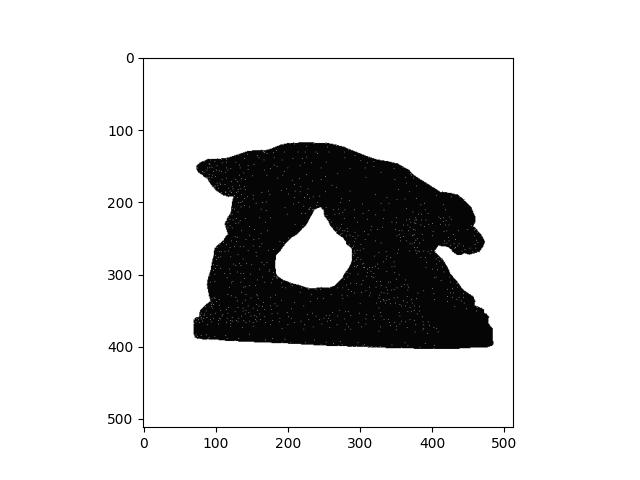
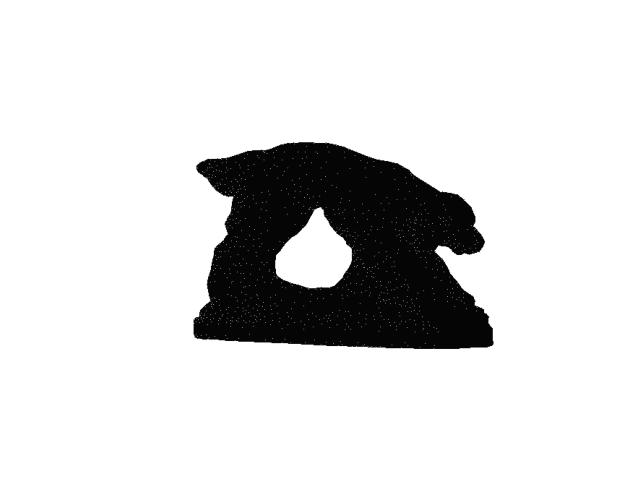
fix white spots

diff --git a/demos/demo_lighting.py b/demos/demo_lighting.py
@@ -1,6 +1,7 @@
 import numpy as np
 import matplotlib.pyplot as plt
 from rendering.render import render_object
+import cv2
 
 data = np.load("../materials/hw3.npy", allow_pickle=True).tolist()
 verts = np.array(data['verts'])
@@ -24,55 +25,62 @@ H = np.array(data['H'])
 bg_color = np.array(data['bg_color'])
 focal = 70
 
-img = render_object('Ambient', 'Gouraud', focal, cam_eye, cam_lookat, cam_up, bg_color, M, N, H, W, verts,
-                    vertex_colors,
-                    face_indices, ka, kd, ks, n, light_positions, light_intensities, Ia)
-plt.imshow(img)
-plt.savefig('../results/Assignment 3 - View/Dog_Gouraud_Ambient.jpeg')
-plt.show()
-
-img = render_object('Diffuse', 'Gouraud', focal, cam_eye, cam_lookat, cam_up, bg_color, M, N, H, W, verts,
-                    vertex_colors,
-                    face_indices, ka, kd, ks, n, light_positions, light_intensities, Ia)
-plt.imshow(img)
-plt.savefig('../results/Assignment 3 - View/Dog_Gouraud_Diffuse.jpeg')
-plt.show()
-
-img = render_object('Specular', 'Gouraud', focal, cam_eye, cam_lookat, cam_up, bg_color, M, N, H, W, verts,
-                    vertex_colors,
-                    face_indices, ka, kd, ks, n, light_positions, light_intensities, Ia)
-plt.imshow(img)
-plt.savefig('../results/Assignment 3 - View/Dog_Gouraud_Specular.jpeg')
-plt.show()
-
-img = render_object('All', 'Gouraud', focal, cam_eye, cam_lookat, cam_up, bg_color, M, N, H, W, verts, vertex_colors,
-                    face_indices, ka, kd, ks, n, light_positions, light_intensities, Ia)
-plt.imshow(img)
-plt.savefig('../results/Assignment 3 - View/Dog_Gouraud_All.jpeg')
-plt.show()
-
-img = render_object('Ambient', 'Phong', focal, cam_eye, cam_lookat, cam_up, bg_color, M, N, H, W, verts, vertex_colors,
-                    face_indices, ka, kd, ks, n, light_positions, light_intensities, Ia)
-plt.imshow(img)
-plt.savefig('../results/Assignment 3 - View/Dog_Phong_Ambient.jpeg')
-plt.show()
-
-img = render_object('Diffuse', 'Phong', focal, cam_eye, cam_lookat, cam_up, bg_color, M, N, H, W, verts, vertex_colors,
-                    face_indices, ka, kd, ks, n, light_positions, light_intensities, Ia)
-plt.imshow(img)
-plt.savefig('../results/Assignment 3 - View/Dog_Phong_Diffuse.jpeg')
-plt.show()
-
-img = render_object('Specular', 'Phong', focal, cam_eye, cam_lookat, cam_up, bg_color, M, N, H, W, verts, vertex_colors,
-                    face_indices, ka, kd, ks, n, light_positions, light_intensities, Ia)
-plt.imshow(img)
-plt.savefig('../results/Assignment 3 - View/Dog_Phong_Specular.jpeg')
-plt.show()
+# img = render_object('Ambient', 'Gouraud', focal, cam_eye, cam_lookat, cam_up, bg_color, M, N, H, W, verts,
+#                     vertex_colors,
+#                     face_indices, ka, kd, ks, n, light_positions, light_intensities, Ia)
+# plt.imshow(img)
+# plt.axis('off')
+# plt.savefig('../results/Assignment 3 - View/Dog_Gouraud_Ambient.jpeg')
+# plt.show()
+#
+# img = render_object('Diffuse', 'Gouraud', focal, cam_eye, cam_lookat, cam_up, bg_color, M, N, H, W, verts,
+#                     vertex_colors,
+#                     face_indices, ka, kd, ks, n, light_positions, light_intensities, Ia)
+# plt.imshow(img)
+# plt.axis('off')
+# plt.savefig('../results/Assignment 3 - View/Dog_Gouraud_Diffuse.jpeg')
+# plt.show()
+#
+# img = render_object('Specular', 'Gouraud', focal, cam_eye, cam_lookat, cam_up, bg_color, M, N, H, W, verts,
+#                     vertex_colors,
+#                     face_indices, ka, kd, ks, n, light_positions, light_intensities, Ia)
+# plt.imshow(img)
+# plt.axis('off')
+# plt.savefig('../results/Assignment 3 - View/Dog_Gouraud_Specular.jpeg')
+# plt.show()
+#
+# img = render_object('All', 'Gouraud', focal, cam_eye, cam_lookat, cam_up, bg_color, M, N, H, W, verts, vertex_colors,
+#                     face_indices, ka, kd, ks, n, light_positions, light_intensities, Ia)
+# plt.imshow(img)
+# plt.axis('off')
+# plt.savefig('../results/Assignment 3 - View/Dog_Gouraud_All.jpeg')
+# plt.show()
+#
+# img = render_object('Ambient', 'Phong', focal, cam_eye, cam_lookat, cam_up, bg_color, M, N, H, W, verts, vertex_colors,
+#                     face_indices, ka, kd, ks, n, light_positions, light_intensities, Ia)
+# plt.imshow(img)
+# plt.axis('off')
+# plt.savefig('../results/Assignment 3 - View/Dog_Phong_Ambient.jpeg')
+# plt.show()
+#
+# img = render_object('Diffuse', 'Phong', focal, cam_eye, cam_lookat, cam_up, bg_color, M, N, H, W, verts, vertex_colors,
+#                     face_indices, ka, kd, ks, n, light_positions, light_intensities, Ia)
+# plt.imshow(img)
+# plt.axis('off')
+# plt.savefig('../results/Assignment 3 - View/Dog_Phong_Diffuse.jpeg')
+# plt.show()
+#
+# img = render_object('Specular', 'Phong', focal, cam_eye, cam_lookat, cam_up, bg_color, M, N, H, W, verts, vertex_colors,
+#                     face_indices, ka, kd, ks, n, light_positions, light_intensities, Ia)
+# plt.imshow(img)
+# plt.axis('off')
+# plt.savefig('../results/Assignment 3 - View/Dog_Phong_Specular.jpeg')
+# plt.show()
 
 img = render_object('All', 'Phong', focal, cam_eye, cam_lookat, cam_up, bg_color, M, N, H, W, verts, vertex_colors,
                     face_indices, ka, kd, ks, n, light_positions, light_intensities, Ia)
-
 plt.imshow(img)
+plt.axis('off')
 plt.savefig('../results/Assignment 3 - View/Dog_Phong_All.jpeg')
 plt.show()
 

diff --git a/rendering/shade.py b/rendering/shade.py
@@ -38,7 +38,8 @@ def shade_gouraud(lighting, vertice_positions, vertice_normal_vectors, vertice_c
     vertice_colors[2] = get_color(lighting, barycentre_coords, vertice_normal_vectors[2], vertice_colors[2], cam_pos,
                                   ka, kd, ks, n, light_positions, light_intensities, Ia)
 
-    if np.all(vertice_positions[0, 0] == vertice_positions[:, 0]) and np.all(vertice_positions[:, 1] == vertice_positions[0, 1]):
+    if np.all(vertice_positions[0, 0] == vertice_positions[:, 0]) and np.all(
+            vertice_positions[:, 1] == vertice_positions[0, 1]):
         return img
 
     if len(np.unique(vertice_positions, axis=0)) < 3:
@@ -138,13 +139,6 @@ def shade_phong(lighting, vertice_positions, vertice_normal_vectors, vertice_col
         A triangle filled with color
     """
 
-    if np.all(vertice_positions[0, 0] == vertice_positions[:, 0]) and \
-            np.all(vertice_positions[:, 1] == vertice_positions[0, 1]):
-        return img
-
-    if len(np.unique(vertice_positions, axis=0)) < 3:
-        return img
-
     # Initialize Edge elements
     Edge1 = Edge("AB", np.array([vertice_positions[0, :], vertice_positions[1, :]]),
                  np.array([vertice_colors[0, :], vertice_colors[1, :]]),
@@ -176,10 +170,10 @@ def shade_phong(lighting, vertice_positions, vertice_normal_vectors, vertice_col
                 active_edges.append(i)
             else:
                 horizontal_line = True
-
     # Act based on active edge findings
     if len(active_edges) < 2:
         return img
+
     if not horizontal_line:
         for i in range(len(vertice_positions)):
             if vertice_positions[i, 1] == y_min:
@@ -187,7 +181,12 @@ def shade_phong(lighting, vertice_positions, vertice_normal_vectors, vertice_col
                 x1 = vertice_positions[i, 0]
                 x2 = x1
         if 0 <= x1 <= img.shape[0] - 1 and 0 <= y_min <= img.shape[1] - 1:
-            img[int(math.floor(x1 + 0.5)), int(math.floor(y_min + 0.5))] = vertice_colors[index, :]
+            img[int(math.floor(x1 + 0.5)), int(math.floor(y_min))] = get_color(lighting, barycentre_coords,
+                                                                                     vertice_normal_vectors[index, :],
+                                                                                     vertice_colors[index, :],
+                                                                                     cam_pos, ka, kd, ks, n,
+                                                                                     light_positions, light_intensities, Ia)
+            ...
     else:
         x1, x2, C1, C2, n1, n2 = find_initial_elements(edges, active_edges)
         for x in range(x1, x2 + 1):
@@ -198,18 +197,18 @@ def shade_phong(lighting, vertice_positions, vertice_normal_vectors, vertice_col
                                           ka, kd, ks, n, light_positions, light_intensities, Ia)
 
     # Begin Scanline Algorithm
-    for y in range(y_min + 1, y_max + 1):
-        if edges[active_edges[0]].slope != float('inf'):
+    for y in range(y_min+1, y_max + 1):
+        if edges[active_edges[0]].slope != 0:
             x1 = x1 + 1 / edges[active_edges[0]].slope
-        if edges[active_edges[1]].slope != float('inf'):
+        if edges[active_edges[1]].slope != 0:
             x2 = x2 + 1 / edges[active_edges[1]].slope
 
         normal_vector_1 = interpolate_vector(edges[active_edges[0]].y_min, edges[active_edges[0]].y_max, y,
-                                             edges[active_edges[0]].normal_vectors[0, :],
-                                             edges[active_edges[0]].normal_vectors[1, :])
+                                             edges[active_edges[0]].normal_vectors[0],
+                                             edges[active_edges[0]].normal_vectors[1])
         normal_vector_2 = interpolate_vector(edges[active_edges[1]].y_min, edges[active_edges[1]].y_max, y,
-                                             edges[active_edges[1]].normal_vectors[0, :],
-                                             edges[active_edges[1]].normal_vectors[1, :])
+                                             edges[active_edges[1]].normal_vectors[0],
+                                             edges[active_edges[1]].normal_vectors[1])
 
         color_A = interpolate_color(edges[active_edges[0]].y_min, edges[active_edges[0]].y_max, y,
                                     edges[active_edges[0]].colors[0, :], edges[active_edges[0]].colors[1, :])

diff --git a/rendering/helpers.py b/rendering/helpers.py
@@ -14,6 +14,7 @@ class Edge:
         self.y_min = min(verts[0, 1], verts[1, 1])
         self.y_max = max(verts[0, 1], verts[1, 1])
 
+
     def set_normal_vectors(self, normal_vectors):
         self.normal_vectors = normal_vectors
 
@@ -78,8 +79,8 @@ def interpolate_vector(x1, x2, x, vector1, vector2):
     """
     if abs(x1 - x2) < 1e-3:
         return vector1
-    t = (x - x1) / (x2 - x1)  # slope of linear interpolation
-    vector = np.array(vector1 + t * (vector2 - vector1))
+    t = (x2 - x) / (x2 - x1)  # slope of linear interpolation
+    vector = np.array(t * vector1 + (1 - t) * vector2)
     vector /= la.norm(vector)
     return vector
 
@@ -190,8 +191,8 @@ def calculate_normals(vertices, face_indices):
 
     for face_index in face_indices:
         triangle = vertices[face_index]
-        triangle_side_AB = (triangle[1] - triangle[0]) / la.norm((triangle[1] - triangle[0]))
-        triangle_side_AC = (triangle[2] - triangle[0]) / la.norm((triangle[2] - triangle[0]))
+        triangle_side_AB = (triangle[0] - triangle[1]) / la.norm((triangle[0] - triangle[1]))
+        triangle_side_AC = (triangle[0] - triangle[2]) / la.norm((triangle[0] - triangle[2]))
         triangle_normal_vector = np.cross(triangle_side_AC, triangle_side_AB)
         N_vectors[face_index] += triangle_normal_vector
 
